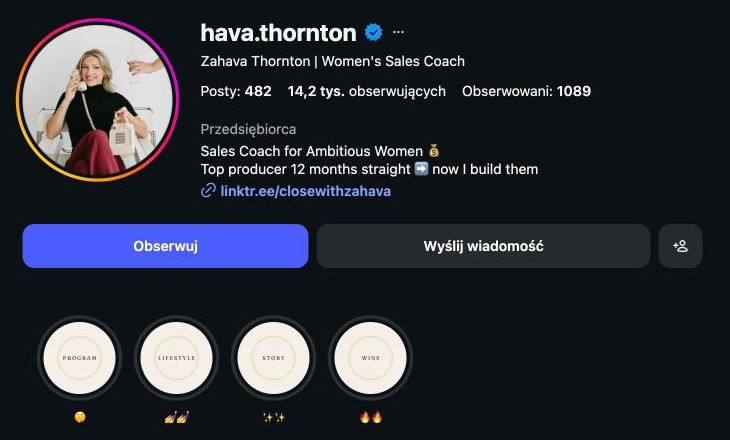
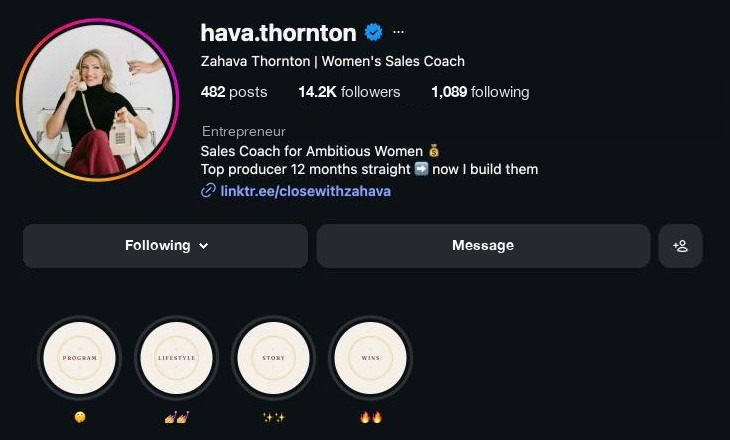
Board link preview, Following on profile

diff --git a/ig-profile/index.html b/ig-profile/index.html
@@ -32,7 +32,7 @@
 .pav img{width:100%;height:100%;border-radius:50%;object-fit:cover;border:3px solid #fff}
 .pright{flex:1;min-width:0;display:flex;flex-direction:column;gap:6px}.pname{font-size:14px}.pstats{display:flex;justify-content:space-between}.pstats span{align-items:flex-start!important}.pstats span{display:flex;flex-direction:column;align-items:center;font-size:12px}.pstats b{font-size:16px}
 .pbio{padding:8px 14px 0}.pbio p{margin:2px 0}.pcat{color:#555}.plink{color:#00376b;font-weight:600;word-break:break-all}
-.pbtn{display:flex;gap:6px;padding:10px 14px}.pbtn span{flex:1;text-align:center;background:#efefef;border-radius:8px;padding:7px 0;font-weight:600}.pbtn .fol{background:#0095f6;color:#fff}
+.pbtn{display:flex;gap:6px;padding:10px 14px}.pbtn span{flex:1;text-align:center;background:#efefef;border-radius:8px;padding:7px 0;font-weight:600}.pbtn .fol{background:#efefef;color:#000}
 .hl{display:flex;gap:12px;padding:4px 14px 10px;overflow:hidden}.hli{display:flex;flex-direction:column;align-items:center;gap:4px;width:58px;flex:none}
 .hli i{width:58px;height:58px;border-radius:50%;border:1px solid #dbdbdb;box-shadow:inset 0 0 0 3px #fff;display:flex;align-items:center;justify-content:center;color:#fff;font-style:normal;font-size:20px}
 .hli b{font-weight:400;font-size:11px;white-space:nowrap;overflow:hidden;text-overflow:ellipsis;max-width:62px}
@@ -57,7 +57,7 @@
   <div class="phead"><span class="pav"><img src="../assets/img/profile/pfp.jpg" alt=""></span>
     <div class="pright"><b class="pname">Zahava Thornton | Women&rsquo;s Sales Coach</b><div class="pstats"><span><b>482</b>posts</span><span><b>14.2K</b>followers</span><span><b>1,089</b>following</span></div></div></div>
   <div class="pbio"><p class="pcat">Entrepreneur</p><p>Sales Coach for Ambitious Women &#128176;</p><p>Top producer 12 months straight &#10145;&#65039; now I build them</p><p class="plink">&#128279; linktr.ee/closewithzahava</p></div>
-  <div class="pbtn"><span class="fol">Follow</span><span>Message</span></div>
+  <div class="pbtn"><span class="fol">Following<svg viewBox="0 0 12 12" style="width:9px;height:9px;margin-left:4px;vertical-align:0"><path d="M2 4l4 4 4-4" fill="none" stroke="#000" stroke-width="1.8" stroke-linecap="round" stroke-linejoin="round"/></svg></span><span>Message</span></div>
   <div class="hl"><span class="hli"><i style="background:url(../assets/img/profile/hl1.jpg) center/cover"></i><b>Program</b></span><span class="hli"><i style="background:url(../assets/img/profile/hl2.jpg) center/cover"></i><b>Lifestyle</b></span><span class="hli"><i style="background:url(../assets/img/profile/hl3.jpg) center/cover"></i><b>Story</b></span><span class="hli"><i style="background:url(../assets/img/profile/hl4.jpg) center/cover"></i><b>Wins</b></span></div>
   <div class="ptabs"><span class="on">&#9638;</span><span>&#9654;</span><span>&#9786;</span></div>
   <div class="grid3"><span class="gc"><svg class="rl" viewBox="0 0 24 24"><rect x="3" y="3" width="18" height="18" rx="5" fill="none" stroke="#fff" stroke-width="2"/><path d="M10 9v6l5-3z" fill="#fff"/></svg><img src="../assets/img/profile/De10sxNBxvC.jpg" alt=""></span><span class="gc"><svg class="rl" viewBox="0 0 24 24"><rect x="3" y="3" width="18" height="18" rx="5" fill="none" stroke="#fff" stroke-width="2"/><path d="M10 9v6l5-3z" fill="#fff"/></svg><img src="../assets/img/profile/DfAGLdEhcPY.jpg" alt=""></span><span class="gc"><svg class="rl" viewBox="0 0 24 24"><rect x="3" y="3" width="18" height="18" rx="5" fill="none" stroke="#fff" stroke-width="2"/><path d="M10 9v6l5-3z" fill="#fff"/></svg><img src="../assets/img/profile/Deu44SAhbS0.jpg" alt=""></span><span class="gc"><svg class="rl" viewBox="0 0 24 24"><rect x="3" y="3" width="18" height="18" rx="5" fill="none" stroke="#fff" stroke-width="2"/><path d="M10 9v6l5-3z" fill="#fff"/></svg><img src="../assets/img/profile/De9ijRYBRlO.jpg" alt=""></span><span class="gc"><svg class="rl" viewBox="0 0 24 24"><rect x="3" y="3" width="18" height="18" rx="5" fill="none" stroke="#fff" stroke-width="2"/><path d="M10 9v6l5-3z" fill="#fff"/></svg><img src="../assets/img/profile/DehoSqrvPxf.jpg" alt=""></span><span class="gc"><svg class="rl" viewBox="0 0 24 24"><rect x="3" y="3" width="18" height="18" rx="5" fill="none" stroke="#fff" stroke-width="2"/><path d="M10 9v6l5-3z" fill="#fff"/></svg><img src="../assets/img/profile/DezK0dhB6uB.jpg" alt=""></span><span class="gc"><svg class="rl" viewBox="0 0 24 24"><rect x="3" y="3" width="18" height="18" rx="5" fill="none" stroke="#fff" stroke-width="2"/><path d="M10 9v6l5-3z" fill="#fff"/></svg><img src="../assets/img/profile/Dew3CqRBBdB.jpg" alt=""></span><span class="gc"><svg class="rl" viewBox="0 0 24 24"><rect x="3" y="3" width="18" height="18" rx="5" fill="none" stroke="#fff" stroke-width="2"/><path d="M10 9v6l5-3z" fill="#fff"/></svg><img src="../assets/img/profile/DehXLowB6OW.jpg" alt=""></span><span class="gc"><svg class="rl" viewBox="0 0 24 24"><rect x="3" y="3" width="18" height="18" rx="5" fill="none" stroke="#fff" stroke-width="2"/><path d="M10 9v6l5-3z" fill="#fff"/></svg><img src="../assets/img/profile/DeuQETgBreZ.jpg" alt=""></span></div>
@@ -69,7 +69,7 @@
   <div class="phead"><span class="pav"><img src="../assets/img/profile/pfp.jpg" alt=""></span>
     <div class="pright"><b class="pname">Zahava Thornton | Women&rsquo;s Sales Coach</b><div class="pstats"><span><b>482</b>posts</span><span><b>14.2K</b>followers</span><span><b>1,089</b>following</span></div></div></div>
   <div class="pbio"><p class="pcat">Entrepreneur</p><p>Sales Coach for Ambitious Women &#128176;</p><p>Top producer 12 months straight &#10145;&#65039; now I build them</p><p>Watch my FREE training to close more calls &#11015;&#65039;</p><p class="plink">&#128279; closewithzahava.com/free-training</p></div>
-  <div class="pbtn"><span class="fol">Follow</span><span>Message</span></div>
+  <div class="pbtn"><span class="fol">Following<svg viewBox="0 0 12 12" style="width:9px;height:9px;margin-left:4px;vertical-align:0"><path d="M2 4l4 4 4-4" fill="none" stroke="#000" stroke-width="1.8" stroke-linecap="round" stroke-linejoin="round"/></svg></span><span>Message</span></div>
   <div class="hl"><span class="hli"><i style="background:url(../assets/img/profile/hl1.jpg) center/cover"></i><b>Program</b></span><span class="hli"><i style="background:url(../assets/img/profile/hl2.jpg) center/cover"></i><b>Lifestyle</b></span><span class="hli"><i style="background:url(../assets/img/profile/hl3.jpg) center/cover"></i><b>Story</b></span><span class="hli"><i style="background:url(../assets/img/profile/hl4.jpg) center/cover"></i><b>Wins</b></span></div>
   <div class="ptabs"><span class="on">&#9638;</span><span>&#9654;</span><span>&#9786;</span></div>
   <div class="grid3"><span class="gc"><svg class="pin" viewBox="0 0 24 24"><path d="M15 3l6 6-3 1-4 4 1 5-2 1-4-4-5 5-1-1 5-5-4-4 1-2 5 1 4-4z" fill="#fff"/></svg><svg class="rl" viewBox="0 0 24 24"><rect x="4" y="6" width="13" height="14" rx="2" fill="none" stroke="#fff" stroke-width="2"/><path d="M8 3h10a3 3 0 0 1 3 3v10" fill="none" stroke="#fff" stroke-width="2"/></svg><img src="../assets/img/post/p1.jpg" alt=""></span><span class="gc"><svg class="pin" viewBox="0 0 24 24"><path d="M15 3l6 6-3 1-4 4 1 5-2 1-4-4-5 5-1-1 5-5-4-4 1-2 5 1 4-4z" fill="#fff"/></svg><svg class="rl" viewBox="0 0 24 24"><rect x="3" y="3" width="18" height="18" rx="5" fill="none" stroke="#fff" stroke-width="2"/><path d="M10 9v6l5-3z" fill="#fff"/></svg><img src="../assets/img/profile/pin2.jpg" alt=""></span><span class="gc"><svg class="pin" viewBox="0 0 24 24"><path d="M15 3l6 6-3 1-4 4 1 5-2 1-4-4-5 5-1-1 5-5-4-4 1-2 5 1 4-4z" fill="#fff"/></svg><svg class="rl" viewBox="0 0 24 24"><rect x="3" y="3" width="18" height="18" rx="5" fill="none" stroke="#fff" stroke-width="2"/><path d="M10 9v6l5-3z" fill="#fff"/></svg><img src="../assets/img/profile/pin3.jpg" alt=""></span><span class="gc"><svg class="rl" viewBox="0 0 24 24"><rect x="3" y="3" width="18" height="18" rx="5" fill="none" stroke="#fff" stroke-width="2"/><path d="M10 9v6l5-3z" fill="#fff"/></svg><img src="../assets/img/profile/De10sxNBxvC.jpg" alt=""></span><span class="gc"><svg class="rl" viewBox="0 0 24 24"><rect x="3" y="3" width="18" height="18" rx="5" fill="none" stroke="#fff" stroke-width="2"/><path d="M10 9v6l5-3z" fill="#fff"/></svg><img src="../assets/img/profile/Deu44SAhbS0.jpg" alt=""></span><span class="gc"><svg class="rl" viewBox="0 0 24 24"><rect x="3" y="3" width="18" height="18" rx="5" fill="none" stroke="#fff" stroke-width="2"/><path d="M10 9v6l5-3z" fill="#fff"/></svg><img src="../assets/img/profile/De9ijRYBRlO.jpg" alt=""></span><span class="gc"><svg class="rl" viewBox="0 0 24 24"><rect x="3" y="3" width="18" height="18" rx="5" fill="none" stroke="#fff" stroke-width="2"/><path d="M10 9v6l5-3z" fill="#fff"/></svg><img src="../assets/img/profile/DehoSqrvPxf.jpg" alt=""></span><span class="gc"><svg class="rl" viewBox="0 0 24 24"><rect x="3" y="3" width="18" height="18" rx="5" fill="none" stroke="#fff" stroke-width="2"/><path d="M10 9v6l5-3z" fill="#fff"/></svg><img src="../assets/img/profile/DezK0dhB6uB.jpg" alt=""></span><span class="gc"><svg class="rl" viewBox="0 0 24 24"><rect x="3" y="3" width="18" height="18" rx="5" fill="none" stroke="#fff" stroke-width="2"/><path d="M10 9v6l5-3z" fill="#fff"/></svg><img src="../assets/img/profile/Dew3CqRBBdB.jpg" alt=""></span></div>

diff --git a/index.html b/index.html
@@ -8,14 +8,14 @@
   <meta name="robots" content="noindex" />
   <meta property="og:title" content="Zahava, adding an extra $50k/mo to your personal brand" />
   <meta property="og:description" content="Zahava, adding an extra $50k/mo to your personal brand" />
-  <meta property="og:image" content="https://nikola424.github.io/for-zahava/og.png" />
+  <meta property="og:image" content="https://nikola424.github.io/for-zahava/og.jpg?v=3" />
   <meta property="og:image:width" content="1200" />
   <meta property="og:image:height" content="630" />
   <meta property="og:url" content="https://nikola424.github.io/for-zahava/" />
   <meta property="og:type" content="website" />
   <meta name="twitter:card" content="summary_large_image" />
   <meta name="twitter:title" content="Zahava, adding an extra $50k/mo to your personal brand" />
-  <meta name="twitter:image" content="https://nikola424.github.io/for-zahava/og.png" />
+  <meta name="twitter:image" content="https://nikola424.github.io/for-zahava/og.jpg?v=3" />
   <!-- Generated per build from the PROSPECT'S logo: node scripts/make_favicon.js {folder} -->
   <link rel="icon" href="assets/img/favicon.png" type="image/png" />
   <link rel="apple-touch-icon" href="assets/img/apple-touch-icon.png" />
@@ -143,7 +143,7 @@
             <p class="beat__text">Right now your bio has no clear CTA, and your links go only to your free stuff and your email list. I&rsquo;d use them differently, and right now I&rsquo;d put a video page there that takes applications.</p>
           </div>
           <div class="beat__aside">
-            <figure class="shot shot--wide"><img src="assets/img/her-profile.jpg?v=1" alt="Zahava&rsquo;s Instagram bio" loading="lazy" /><figcaption>Your bio today</figcaption></figure>
+            <figure class="shot shot--wide"><img src="assets/img/her-profile.jpg?v=2" alt="Zahava&rsquo;s Instagram bio" loading="lazy" /><figcaption>Your bio today</figcaption></figure>
           </div>
         </article>
 
@@ -167,7 +167,7 @@
           </div>
           <div class="grid grid--2">
             <button class="pcard reveal" data-title="Your profile, upgraded" data-embed="ig-profile/?v=z3">
-              <span class="thumb"><span class="thumb__bar"><i></i><i></i><i></i><span class="thumb__url">today vs upgraded</span></span><img class="thumb__img" src="assets/img/igprofile-preview.jpg?v=z3" alt="Your profile, upgraded preview" loading="lazy" /></span>
+              <span class="thumb"><span class="thumb__bar"><i></i><i></i><i></i><span class="thumb__url">today vs upgraded</span></span><img class="thumb__img" src="assets/img/igprofile-preview.jpg?v=f1" alt="Your profile, upgraded preview" loading="lazy" /></span>
               <span class="pcard__body"><span><span class="pcard__kicker">The first thing they see</span><span class="pcard__title">Your profile, upgraded</span><span class="pcard__desc">Your bio in your own words, with one clear CTA and one link to your free training.</span></span><span class="pcard__link">Open preview <span class="arrow" aria-hidden="true"></span></span></span>
             </button>
             <button class="pcard reveal" data-title="Your 3 pinned posts" data-embed="pinned-post/?v=z1" data-noanim>
